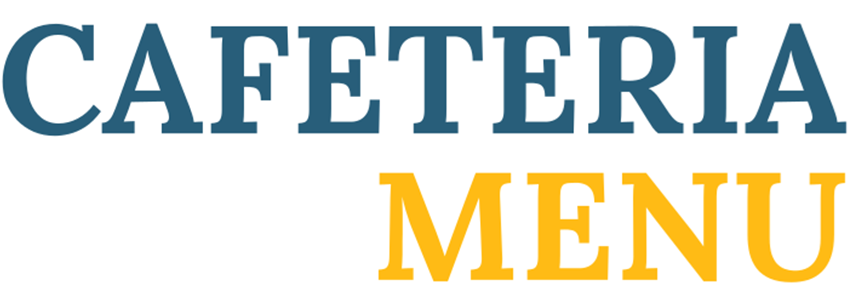
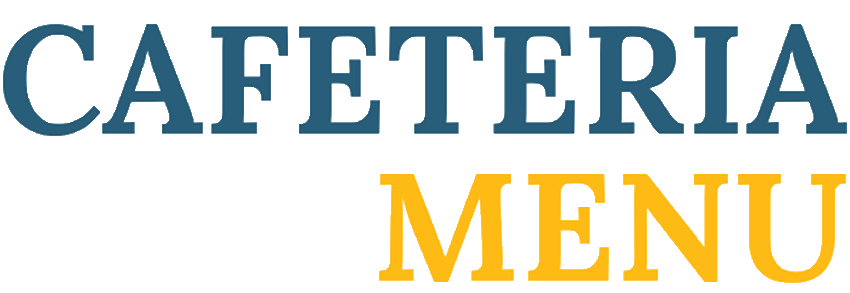
made images transparent

diff --git a/index.html b/index.html
@@ -12,7 +12,7 @@
       <!-- new wrapper groups header + grid so they print together -->
       <div class="menu-wrapper">
         <div class="menu-header">
-          <img src="images/iuk-logo-with-text.jpg" alt="IUK Logo" class="logo left-logo">
+          <img src="images/iuk-logo-with-text.png" alt="IUK Logo" class="logo left-logo">
           <h1>
             
           </h1>
